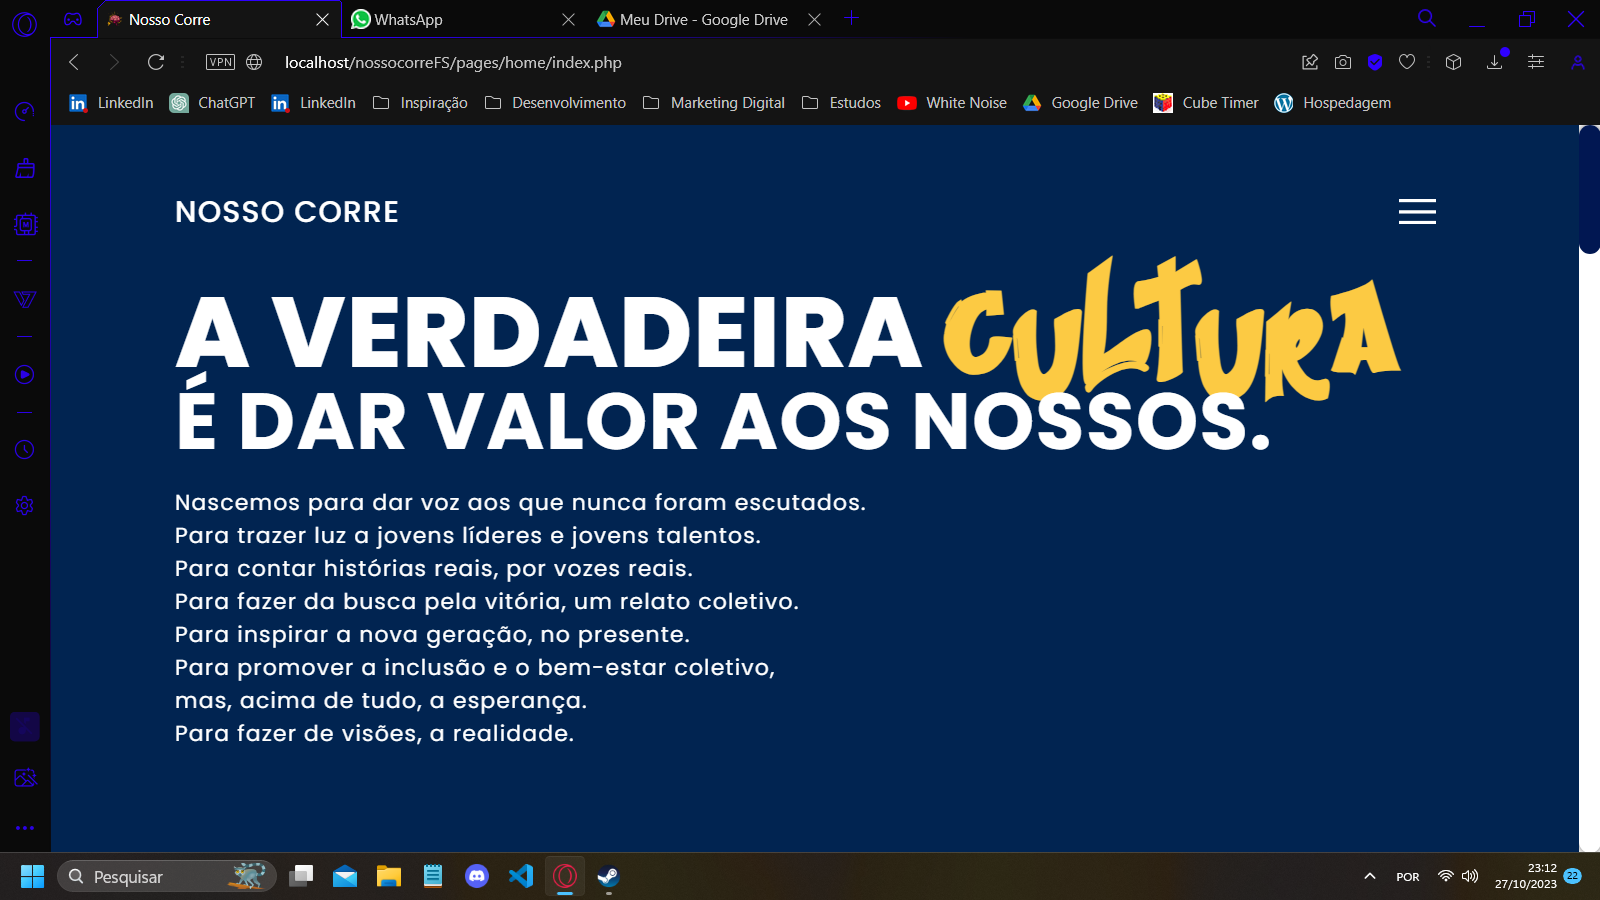
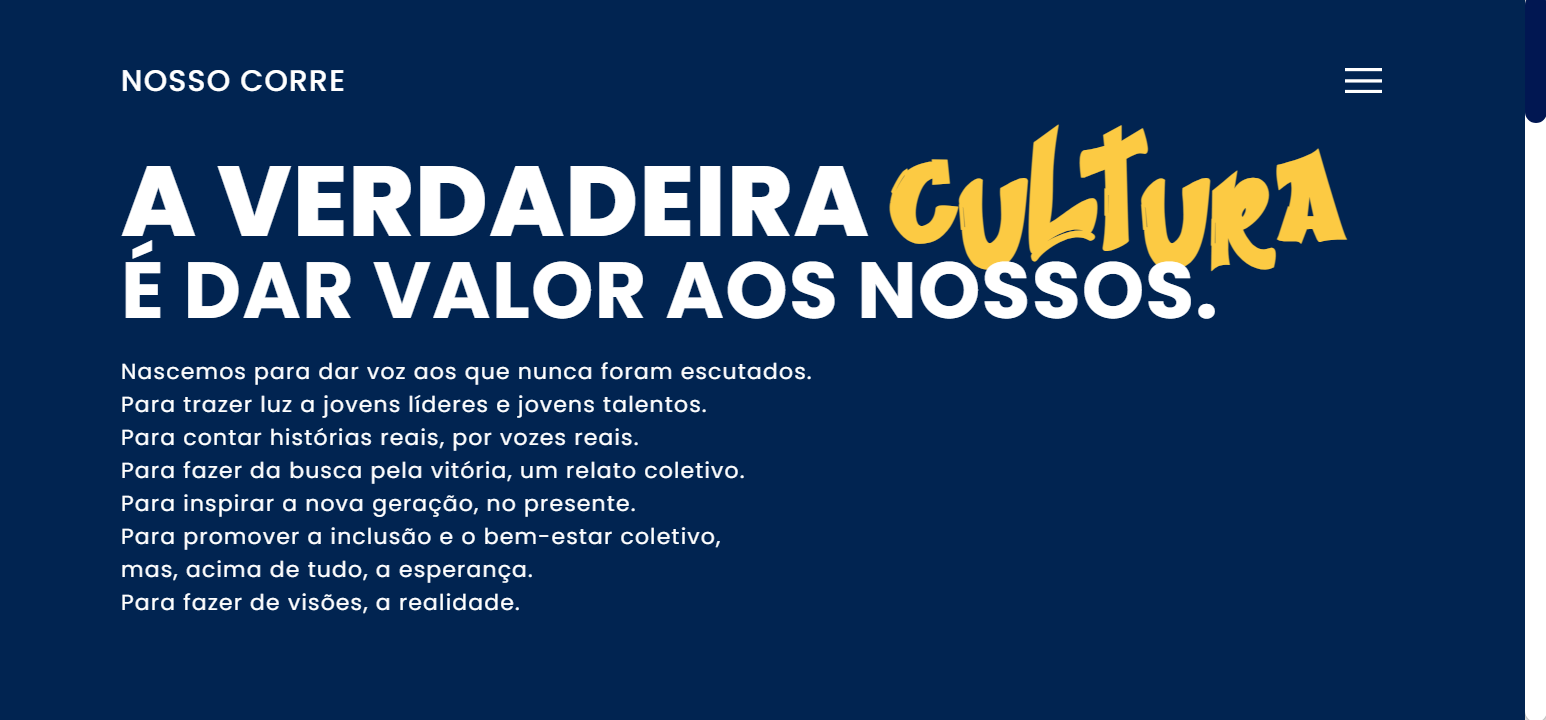
Atualização dos projetos

diff --git a/index.html b/index.html
@@ -58,17 +58,9 @@
                 data-aos-delay="150"
                 data-aos-offset="0"
                 data-aos-duration="1400"
-                >Back-end Developer<br><span style="
-                    font-family: 'Bebas Neue';
-                    padding-left: 10px;
-                    padding-right: 10px;
-                    background-color: var(--color-white);
-                    color: var(--color-purple);
-                    border-radius: 10px;
-                    font-weight: 600;
-                ">Graphic Designer</span></h2>
-                <p>I am a car enthusiast, lover of music and culinary arts, and currently pursuing 
-                    technical high school. I enjoy solving problems, working with clean codes, 
+                >Back-end Developer<br><span class="highlight">Graphic Designer</span></h2>
+                <p>I'm a car enthusiast, lover of music and culinary arts, and I'm currently studying
+                    Database. I enjoy solving problems, working with clean codes, 
                     staying up to date with trends, and learning new things. <br>
                     Here are some of the technologies that I study and specialize in:
                 </p>
@@ -78,6 +70,7 @@
                     <i class="devicon-javascript-plain"></i>
                     <i class="devicon-php-plain"></i>
                     <i class="devicon-mysql-plain-wordmark"></i>
+                    <i class="devicon-python-plain"></i>
                     <img src="assets/laravel.svg" height="40px" style="margin-top: -15px; filter: invert(1)"></img>
                     <i class="devicon-illustrator-plain"></i>
                     <i class="devicon-photoshop-plain"></i>
@@ -102,32 +95,62 @@
                 margin-top: 0; 
                 text-align: center;">Projects</h2>
             </div>
-            <a href="https://github.com/DaviSFS21/Pai_Filhos-FS" target="_blank">
-                <div data-aos="fade-up"
-                    data-aos-easing="ease-in-out"
-                    data-aos-delay="150"
-                    data-aos-offset="0"
-                    data-aos-duration="1400">
-                    <div class="row link" style="--bs-gutter-x: 0; height: auto;">
-                        <div class="col-6">
-                            <img src="assets/Print-PF.png" width="80%" alt="Pai & Filhos" style="margin-left: 8%;">
-                        </div>
-                        <div class="col-6"><p style="text-align: center;">
-                            <div style="margin-top: -15px;">
-                                <p style="font-size: 32px; font-weight: 500;">e-Commerce Pai & Filhos</p>
-                                Project completed in 2 months, between October and November 2022, 
-                                with Gustavo Varella and Matheus Schiavão.
-                                <br>
-                                A bed, table, and bath marketplace created as a school project. 
-                                The project was built using HTML, CSS, SCSS, JavaScript, and PHP, 
-                                along with the frameworks Bootstrap, W3.CSS, Cloudfare, and jQuery.
+            <div style="margin-bottom: 3em;">
+                <a href="https://github.com/DaviSFS21/Pai_Filhos-FS" target="_blank">
+                    <div data-aos="fade-up"
+                        data-aos-easing="ease-in-out"
+                        data-aos-delay="150"
+                        data-aos-offset="0"
+                        data-aos-duration="1400">
+                        <div class="row link" style="--bs-gutter-x: 0; height: auto;">
+                            <div class="col-6">
+                                <img src="assets/Print-NC.png" width="80%" alt="Pai & Filhos" style="margin-left: 8%;">
                             </div>
-                        </p>
+                            <div class="col-6"><p style="text-align: center;">
+                                <div style="margin-top: -15px;">
+                                    <p style="font-size: 32px; font-weight: 500;">Nosso Corre</p>
+                                    Project done for the Final Paper of the Computer Technician Course. 
+                                    The software was made in 2023, with Gustavo Varella and Matheus Schiavão. 
+                                    <br> 
+                                    Nosso Corre is a cultural integration platform, which contains sharing of events, music and news, 
+                                    in addition to the login system for users. 
+                                    <br> 
+                                    Developed with HTML, CSS, JS, PHP, MySQL, and the APIs ViaCEP and Cookies API.
+                                </div>
+                            </p>
+                            </div>
                         </div>
                     </div>
-                </div>
-            </a>
-            <div class="row" style="--bs-gutter-x: 0; margin-top: 3em;">
+                </a>
+            </div>
+            <div style="margin-bottom: 3em;">
+                <a href="https://github.com/DaviSFS21/Pai_Filhos-FS" target="_blank">
+                    <div data-aos="fade-up"
+                        data-aos-easing="ease-in-out"
+                        data-aos-delay="150"
+                        data-aos-offset="0"
+                        data-aos-duration="1400">
+                        <div class="row link" style="--bs-gutter-x: 0; height: auto;">
+                            <div class="col-6">
+                                <img src="assets/Print-PF.png" width="80%" alt="Pai & Filhos" style="margin-left: 8%;">
+                            </div>
+                            <div class="col-6"><p style="text-align: center;">
+                                <div style="margin-top: -15px;">
+                                    <p style="font-size: 32px; font-weight: 500;">e-Commerce Pai & Filhos</p>
+                                    Project completed in 2 months, between October and November 2022, 
+                                    with Gustavo Varella and Matheus Schiavão.
+                                    <br>
+                                    A bed, table, and bath marketplace created as a school project. 
+                                    The project was built using HTML, CSS, SCSS, JavaScript, and PHP, 
+                                    along with the frameworks Bootstrap, W3.CSS, Cloudfare, and jQuery.
+                                </div>
+                            </p>
+                            </div>
+                        </div>
+                    </div>
+                </a>
+            </div>
+            <div class="row" style="--bs-gutter-x: 0;">
                 <div class="col-md-6" 
                 data-aos="fade-up"
                 data-aos-easing="ease-in-out"
@@ -176,9 +199,8 @@
                 <div class="col-lg-6 col-sm-12">
                     <div class="address-box">
                         <div class="add-content">
-                            <h5>Take a look at my curriculum:</h5>
-                            <a href="assets/Curriculum Davi Soares.pdf" target="_blank">
-                                <img src="assets/Logo2.png" width="150px" alt="Logo"></a>
+                            <h5>Take a look at my curriculum
+                                <a class="highlight" href="assets/Currículo Davi Soares.pdf" target="_blank">here</a></h5>
                         </div>
                     </div>
                 </div>

diff --git a/index-pt-br.html b/index-pt-br.html
@@ -58,19 +58,10 @@
                 data-aos-delay="150"
                 data-aos-offset="0"
                 data-aos-duration="1400"
-                >Desenvolvedor Back-end <span style="
-                    font-family: 'Bebas Neue';
-                    padding-left: 10px;
-                    padding-right: 10px;
-                    background-color: var(--color-white);
-                    color: var(--color-purple);
-                    border-radius: 10px;
-                    font-weight: 600;
-                ">Designer Gráfico</span></h2>
+                >Desenvolvedor Back-end <span class="highlight">Designer Gráfico</span></h2>
                 <p>Sou um entusiasta de carros, apreciador da música e da culinária, e atualmente 
-                    estou cursando o ensino médio técnico.
-                    Gosto de solucionar problemas, de códigos organizados, gosto de acompanhar tendências 
-                    e de aprender coisas novas. <br>
+                    estou cursando Banco de Dados. Gosto de solucionar problemas, de códigos organizados, 
+                    gosto de acompanhar tendências e de aprender coisas novas. <br>
                     Algumas das tecnologias que domino/estudo:
                 </p>
                 <div style="font-size: 50px; margin-right: 10px;">
@@ -79,6 +70,7 @@
                     <i class="devicon-javascript-plain"></i>
                     <i class="devicon-php-plain"></i>
                     <i class="devicon-mysql-plain-wordmark"></i>
+                    <i class="devicon-python-plain"></i>
                     <img src="assets/laravel.svg" height="40px" style="margin-top: -15px; filter: invert(1)"></img>
                     <i class="devicon-illustrator-plain"></i>
                     <i class="devicon-photoshop-plain"></i>
@@ -100,30 +92,60 @@
             data-aos-duration="1400">
                 <h2>Projetos</h2>
             </div>
-            <a href="https://github.com/DaviSFS21/Pai_Filhos-FS" target="_blank">
-                <div data-aos="fade-up"
-                    data-aos-easing="ease-in-out"
-                    data-aos-delay="150"
-                    data-aos-offset="0"
-                    data-aos-duration="1400">
-                    <div class="row link" style="--bs-gutter-x: 0; height: auto;">
-                        <div class="col-6">
-                            <img src="assets/Print-PF.png" width="80%" alt="Pai & Filhos" style="margin-left: 8%;">
-                        </div>
-                        <div class="col-6"><p style="text-align: center;">
-                            <div style="margin-top: -15px;">
-                                <p style="font-size: 32px; font-weight: 500;">e-Commerce Pai & Filhos</p>
-                                Projeto feito em 2 meses, entre outubro e novembro de 2022, com Gustavo Varella e Matheus Schiavão.
-                                <br>
-                                Um marketplace de cama, mesa e banho realizado para um trabalho de escola. O projeto é feito com HTML, CSS, SCSS, JavaScript e PHP, 
-                                além dos frameworks Bootstrap, W3.CSS, Cloudfare e jQuery.
+            <div style="margin-bottom: 3em;">
+                <a href="https://github.com/DaviSFS21/Pai_Filhos-FS" target="_blank">
+                    <div data-aos="fade-up"
+                        data-aos-easing="ease-in-out"
+                        data-aos-delay="150"
+                        data-aos-offset="0"
+                        data-aos-duration="1400">
+                        <div class="row link" style="--bs-gutter-x: 0; height: auto;">
+                            <div class="col-6">
+                                <img src="assets/Print-NC.png" width="80%" alt="Pai & Filhos" style="margin-left: 8%;">
                             </div>
-                        </p>
+                            <div class="col-6"><p style="text-align: center;">
+                                <div style="margin-top: -15px;">
+                                    <p style="font-size: 32px; font-weight: 500;">Nosso Corre</p>
+                                    Projeto feito para Trabalho de Conclusão de Curso do Técnico de Informática. 
+                                    O software foi feito em 2023, com Gustavo Varella e Matheus Schiavão.
+                                    <br>
+                                    O Nosso Corre trata-se de uma plataforma de integração cultural, que contém 
+                                    compartilhamento de eventos, música e notícias, além do sistema de login aos usuários.
+                                    <br>
+                                    Foi desenvlvido com HTML, CSS, JS, PHP, MySQL, e as APIs ViaCEP e Cookies API.
+                                </div>
+                            </p>
+                            </div>
                         </div>
                     </div>
-                </div>
-            </a>
-            <div class="row" style="--bs-gutter-x: 0; margin-top: 3em;">
+                </a>
+            </div>
+            <div style="margin-bottom: 3em;">
+                <a href="https://github.com/DaviSFS21/Pai_Filhos-FS" target="_blank">
+                    <div data-aos="fade-up"
+                        data-aos-easing="ease-in-out"
+                        data-aos-delay="150"
+                        data-aos-offset="0"
+                        data-aos-duration="1400">
+                        <div class="row link" style="--bs-gutter-x: 0; height: auto;">
+                            <div class="col-6">
+                                <img src="assets/Print-PF.png" width="80%" alt="Pai & Filhos" style="margin-left: 8%;">
+                            </div>
+                            <div class="col-6"><p style="text-align: center;">
+                                <div style="margin-top: -15px;">
+                                    <p style="font-size: 32px; font-weight: 500;">e-Commerce Pai & Filhos</p>
+                                    Projeto feito em 2 meses, entre outubro e novembro de 2022, com Gustavo Varella e Matheus Schiavão.
+                                    <br>
+                                    Um marketplace de cama, mesa e banho realizado para um trabalho de escola. O projeto é feito com HTML, CSS, SCSS, JavaScript e PHP, 
+                                    além dos frameworks Bootstrap, W3.CSS, Cloudfare e jQuery.
+                                </div>
+                            </p>
+                            </div>
+                        </div>
+                    </div>
+                </a>
+            </div>
+            <div class="row" style="--bs-gutter-x: 0;">
                 <div class="col-md-6" 
                 data-aos="fade-up"
                 data-aos-easing="ease-in-out"
@@ -171,9 +193,8 @@
                 <div class="col-lg-6 col-sm-12">
                     <div class="address-box">
                         <div class="add-content">
-                            <h5>Veja o meu currículo abaixo:</h5>
-                            <a href="assets/Currículo Davi Soares.pdf" target="_blank">
-                                <img src="assets/Logo2.png" width="150px" alt="Logo"></a>
+                            <h5>Veja o meu currículo 
+                                <a class="highlight" href="assets/Currículo Davi Soares.pdf" target="_blank">aqui</a></h5>
                         </div>
                     </div>
                 </div>

diff --git a/style.css b/style.css
@@ -293,7 +293,7 @@
 
   .pic{
     height: auto;
-    width:  320px;
+    width:  420px;
     margin-right: 20px;
   }
 
@@ -321,8 +321,18 @@
     line-height: 22px;
   }
 
+  .highlight{
+    font-family: 'Bebas Neue';
+    padding-left: 10px;
+    padding-right: 12px;
+    background-color: var(--color-white);
+    color: var(--color-purple) !important;
+    border-radius: 10px;
+    font-weight: 600;
+  }
+
   .style-icons{
-    font-size: 50px;
+    font-size: 45px;
     margin-right: 10px;
   }
 
